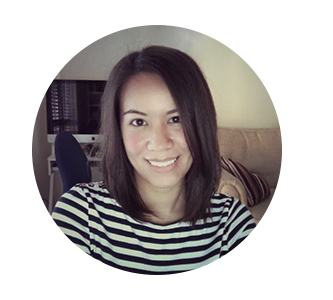
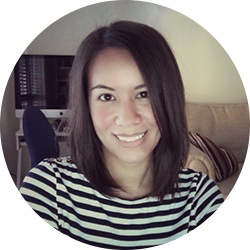
Changed styling, edited photos

diff --git a/index.html b/index.html
@@ -5,13 +5,13 @@
   <title>Jaime Schubert - Grasshopper Cohort</title>
   <link rel="stylesheet" type="text/css" href="css/normalize.css" media="screen">
   <link rel="stylesheet" type="text/css" href="css/grid.css" media="screen">
-  <link href='http://fonts.googleapis.com/css?family=Nunito' rel='stylesheet' type='text/css'>
+  <link href='http://fonts.googleapis.com/css?family=Lato300' rel='stylesheet' type='text/css'>
   <link rel="stylesheet" type="text/css" href="css/style.css" media="screen">
 </head>
 
 <body>
   <div class="container cleafix">
-    <div class="grid_4">
+    <div id="logo" class="grid_4">
       <img src="img/ghopper-logo.png" alt="Smells Like Bakin">
     </div>
 
@@ -30,11 +30,11 @@
         <p><a href="#" class="btn">Browse My Portfolio</a></p>
     </div>
 
-    <div class="grid_3 omega">
+    <div id="my-photo"class="grid_3 omega">
       <img src="img/jaime.png" alt="Jaime Schubert">
     </div>
 
-    <div id="featured-cupcake" class="grid_7">
+    <div id="quirky" class="grid_7">
       <h2>Something Quirky</h2>
       <p>I was part of a filipino dance group in college where we did Tinikling (dancing around clanging bamboo sticks), and Sayaw Sa Bangko (dancing atop stacked benches).</p>
 
@@ -43,7 +43,7 @@
 
       <div id="new-cupcakes" class="grid_5 omega">
         <h2>Today I Love</h2>
-        <p>Family &amp; Friends.  Visual Effects.  Adventure Time.   Classic Simpsons.  Professor Layton.  Legend of Zelda. Pixar.  Miyazaki.  Being random.</p>
+        <p>Family &amp; Friends.  Visual Effects.  Adventure Time.   Classic Simpsons.  Striped shirts.  Professor Layton.  Legend of Zelda. Pixar.  Miyazaki.  Being random.</p>
         <img src="img/adventure-time.jpg" alt="Sayaw Sa Bangko">
         <img src="img/vfx-work.jpg" alt="Visual Effects">
       </div>

diff --git a/css/style.css b/css/style.css
@@ -1,27 +1,31 @@
 body {
-	font-family: 'Nunito', sans-serif;
-	background: #420600 url('img/bg-texture.jpg') repeat;
-	color: #FAF3BC;
+	font-family: 'Lato', sans-serif;
+	background: #FCFCF9;
+	color: #A6A6A4;
 }
 
 a {
-	color: #4FB69F;
+	color: #D54C4A;
 	text-decoration: none;
 }
 
 h1 {
 	font-size: 1.750em;
-	letter-spacing: -1.5px;
+	letter-spacing: -1.25px;
 }
 
 h2 {
 	font-size: 1.500em;
-	color: #B4C34F;
+	color: #B3CC97;
+}
+
+#logo img {
+	margin: 25px 0 -25px 0;
 }
 
 .btn {
-	color: #FAF3BC;
-	background: #4FB69F url('img/texture.png') no-repeat right top;
+	color: #FCFCF9;
+	background: #D54C4A;
 	padding: 15px 30px;
 	margin: 40px 0;
 	border-radius: 25px;
@@ -29,7 +33,7 @@ h2 {
 }
 
 .btn:hover {
-	background-color: #4CC4A7;
+	background-color: #BD3737;
 }
 
 ul.nav {
@@ -40,11 +44,18 @@ ul.nav {
 
 ul.nav li {
 	float: left;
-	margin-right: 40px;
+	margin-left: 90px;
 }
 
 ul.nav li a {
-	color: #FAF3BC;
+	font-size: 1.1em;
+	color: #DEA37A;
+}
+
+#my-photo img {
+	background: #D54C4A;
+	border: 10px #D54C4A solid;
+	border-radius: 140px;
 }
 
 #intro {
@@ -52,12 +63,13 @@ ul.nav li a {
 }
 
 #new-cupcakes img {
-	border: 8px solid #FAF3BC;
+	border: 8px solid #DEA37A;
 	margin: 0 0 20px 0;
 }
 
-#featured-cupcake img {
-	border: 8px solid #FAF3BC;
+#quirky img {
+	border: 8px solid #DEA37A;
+	margin: 20px 0;
 }
 
 #copyright {
